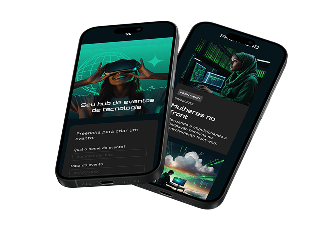
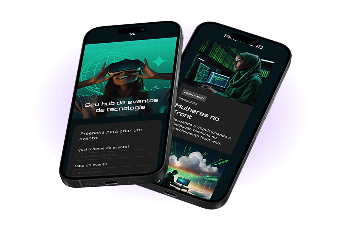
finalizando exercicio

diff --git a/Exercicios/Exercicio 1 Alura/style.css b/Exercicios/Exercicio 1 Alura/style.css
@@ -7,28 +7,29 @@
 --fundo-light: rgb(255, 255, 255);
 } 
 
-@import url('https://fonts.googleapis.com/css2?family=Poppins:ital,wght@0,100;0,200;0,300;0,400;0,500;0,600;0,700;0,800;0,900;1,100;1,200;1,300;1,400;1,500;1,600;1,700;1,800;1,900&display=swap');
-
 *{
   margin: 0;
   padding: 0;
   box-sizing: border-box;
 }
+
 body{
-    display: flex;
-    flex-direction: column;
-    align-items: center;
+
+    font-family: "Poppins", sans-serif;
 }
+
 header{
     display: flex;
     justify-content: space-around;
     align-items: flex-start;
     width: 100%;
 }
+
 header img{
     padding: 20px;
     
 }
+
 header span{
     background-color: #0E1014;
     border-radius : 50%;
@@ -37,66 +38,75 @@ header span{
     margin: 20px;
     padding: 8px;
 }
+
 main{
-    display: flex;   
+    display: flex;
     flex-direction: column;
-    height: 670.61px;
-    width: 341px ;
+    align-items: center;
+
 }  
-    
+
+h1{
+    text-align: center;
+    font-size: 64px;
+    font-family: "Unbounded", sans-serif;
+    font-weight: bold;
+    margin-top: 60px;
+    margin-bottom: 24px;
+}
+
 span{
     color: var(--roxo-destaque);
 }
+
 p{
     text-align: center;
     color: var(--texto-versão-light);
-    font-size:  20px;
-    font-family: "Poppins", sans-serif;
+    font-size:  24px;
     font-weight: 400;
-    font-style: normal;
-}
-h1{
-    text-align: center;
-    font-family: "Poppins", sans-serif;
-    font-size: 40px;
-    font-weight: 700;
-    font-style: normal;
-    padding-bottom: 24px ;
-}
-p#botom{    
-    text-align: center;
-    font-size: 20px;
-    font-family: "Poppins", sans-serif;
-    font-weight: 600;
-    font-style: normal;
-    color: var(--texto-versão-dark);
     
 }
 
-a.botom{    
-    display: flex;
-    align-content: center;
-    margin: 40px 40px;
-    display: block;
+a{    
+    margin: 40px auto; 
+    border-radius : 36px;
     background-color: var(--roxo-destaque);
+    display: block;
+    text-decoration: none;
+    text-align: center;
+    font-size: 20px;    
+    font-weight: 600;
+    color: var(--texto-versão-dark);
     width: 251px;
     height: 66px;
-    border-radius : 36px;
-    text-decoration: none;
+    line-height: 66px;
 }
-a.botom:hover{
+
+a:hover{
     background-color: var(--roxo-hover);
 }
 
-@media (min-width: 768px) {
-    header {
-        flex-direction: row;       /* Muda os itens de coluna para linha (lado a lado) */
-        justify-content: space-between; /* Espalha os itens (ex: logo na esquerda, menu na direita) */
-        align-items: center;       /* Centraliza os itens verticalmente na linha */
-        padding: 20px 40px;        /* Aumenta o espaçamento nas telas grandes */
-    }
+section img{
+    display: block;
+    margin: 0 auto;
+}
 
-    header img {
-        padding-top: 0;            /* Remove o padding do topo que era do celular */
-    }
+@media (max-width:440px) {
+ header{
+    margin: 32px 0 0 16px;
+}
+h1{
+    font-size: 40px;
+}
+p{  font-size: 20px;
+    width:340px;
+}
+section img{
+    width: 340px;
+    height: 230px;   
+}
+a{
+    width: 251px;
+    height: 66px;
+}
 }

diff --git a/Exercicios/Exercicio 1 Alura/index.html b/Exercicios/Exercicio 1 Alura/index.html
@@ -3,15 +3,23 @@
 <head>
     <meta charset="UTF-8">
     <meta name="viewport" content="width=device-width, initial-scale=1.0">
+
+    <link rel="preconnect" href="https://fonts.googleapis.com">
+    <link rel="preconnect" href="https://fonts.gstatic.com" crossorigin>
+    <link href="https://fonts.googleapis.com/css2?family=Poppins:ital,wght@0,100;0,200;0,300;0,400;0,500;0,600;0,700;0,800;0,900;1,100;1,200;1,300;1,400;1,500;1,600;1,700;1,800;1,900&family=Unbounded:wght@200..900&display=swap" rel="stylesheet">
+
     <link rel="stylesheet" href="https://fonts.googleapis.com/css2?family=Material+Symbols+Outlined:opsz,wght,FILL,GRAD@20..48,100..700,0..1,-50..200&icon_names=dark_mode" />
-    <link rel="stylesheet" href="style.css">
-    
+
+    <link rel="shortcut icon" href="Favicon-preto.svg" type="image/x-icon"> 
+
+    <link rel="stylesheet" href="style.css"> 
     <title>Tecboard</title>
 </head>
+
 <body>
     <header>
         <img src="img/Logo-preta.png" alt="Logo Tecboard">
-        <a href="#"><span class="material-symbols-outlined">dark_mode</span></a>
+        <span class="material-symbols-outlined">dark_mode</span>
     </header>
     <main>
         <section id="principal">
@@ -19,16 +27,14 @@
         <h1><span>Fique de olho</span><br>no que importa</h1>
         </div>
         <div>
-        <p>Monitoramento em tempo real com alertas inteligentes para suas aplicações nunca sairem do ar sem você saber.</p>
+        <p>Monitoramento em tempo real com alertas inteligentes para sua aplicação nunca sairem do ar sem você saber.</p>
         </div>
         </section>
 
-        <a href="#" class="botom">
-        <p id="botom">Testar versão demo</p>
-        </a>
+        <a href="#"> Testar versão demo</a>
         
         <section id="imagem">
-        <img src="img/Imagem-celular.png" alt="foto dois celulares">
+        <img src="img/Imagem-desktop.png" alt="foto dois celulares">
         </section>
     </main>
 </body>

diff --git a/Exercicios/Exercicio 1 Alura/tema_escuro.css b/Exercicios/Exercicio 1 Alura/tema_escuro.css
@@ -1,0 +1,99 @@
+:root{
+--roxo-destaque: #9747ff;
+--roxo-hover: #8233e8;
+--texto-versão-dark: #FFFFFF;
+--texto-versão-light: #232323;
+--fundo-dark: #0E1014;
+--fundo-light: rgb(255, 255, 255);
+} 
+
+*{
+  margin: 0;
+  padding: 0;
+  box-sizing: border-box;
+}
+
+body{
+    background-color: var(--fundo-dark);
+    color: var(--texto-versão-dark);
+    text-align: center;
+    }
+header{
+    text-align: left;
+    margin:75px 0 0 360px;
+
+}
+
+h1{
+    font-size: 64px;
+    font-family: "Unbounded", sans-serif;
+    font-weight: bold;
+    margin-top: 60px;
+    margin-bottom: 24px;
+}
+
+span{
+    color: var(--roxo-destaque);
+}
+
+p{
+    display: inline-block;
+    font-size: 24px;
+    font-family: "Poppins",sans-serif;
+    width: 792px;
+}
+
+a{
+    font-size: 24px;
+    font-family: "Poppins",sans-serif;
+    color:var(--texto-versão-dark);
+    text-decoration: none;
+    background-color: var(--roxo-destaque);
+    width: 340px;
+    height: 66px;
+    display: block;
+    text-align: center;
+    line-height: 66px; /*centraliza o texto*/
+    border-radius : 36px;
+    margin: 40px auto;
+}
+
+a:hover{
+    background-color: var(--roxo-hover);
+}
+
+section img{
+    display: block;
+    width: 792px;
+    height: 446px;
+    margin: 0 auto;
+}
+
+@media (max-width:768px) {
+ header{
+    margin: 65px 0 0 60px;
+}
+p{
+    width:648px;
+}
+}
+
+@media (max-width:375px) {
+ header{
+    margin: 32px 0 0 16px;
+}
+h1{
+    font-size: 40px;
+}
+p{  font-size: 20px;
+    width:340px;
+}
+section img{
+    width: 340px;
+    height: 230px;   
+}
+a{
+    width: 251px;
+    height: 66px;
+}
+}
